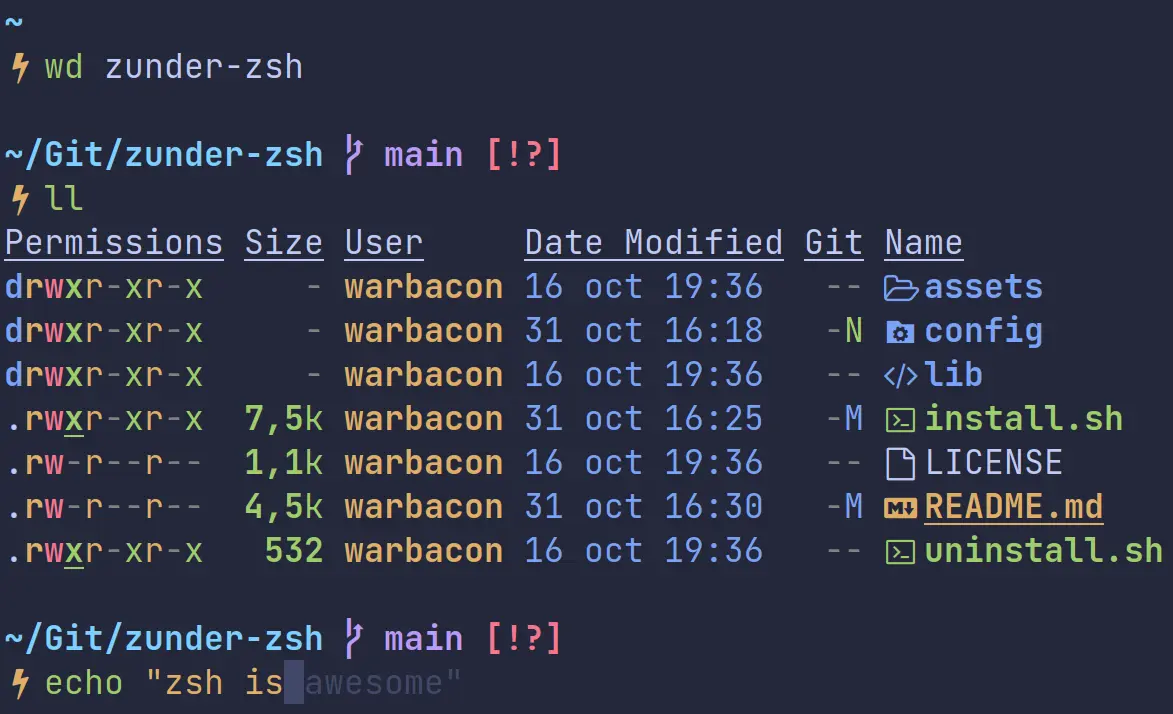
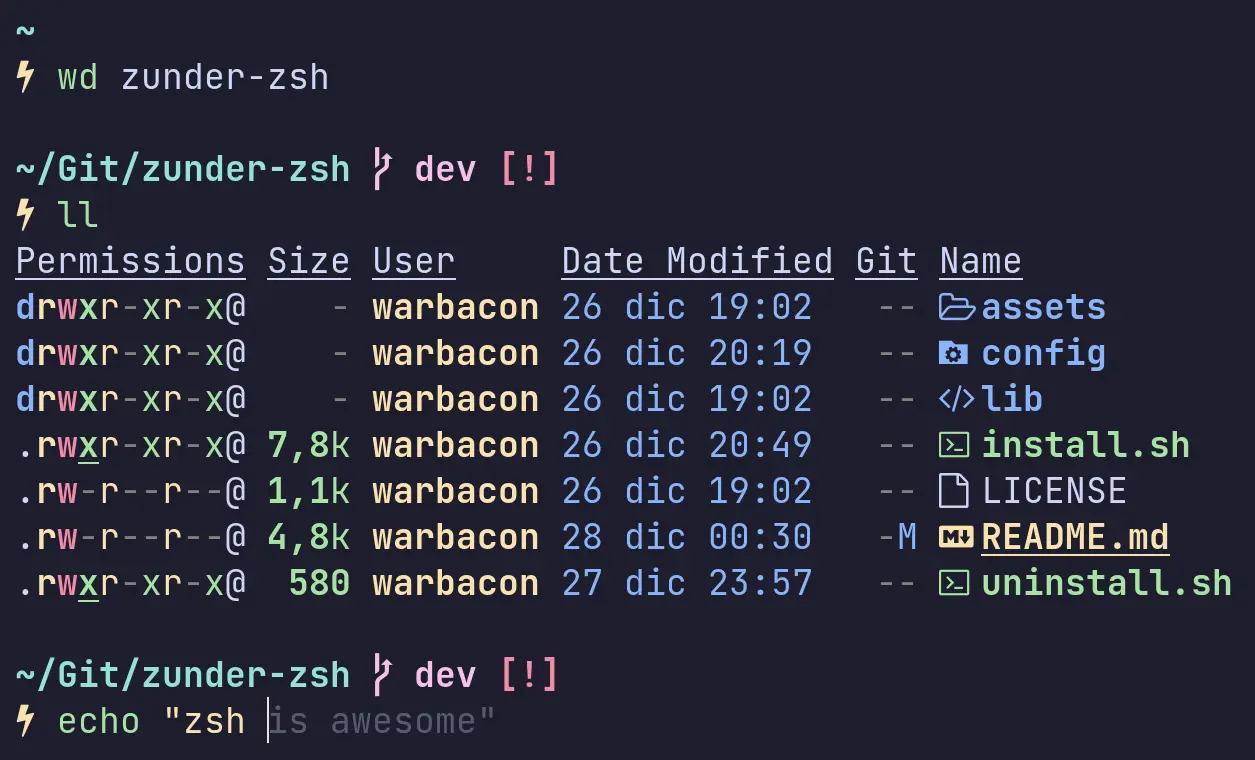
Update README.md

Changed region(s): [[0.0, 0.1849, 1.0, 0.8011], [0.0, 0.8627, 0.491, 0.986], [0.0, 0.0308, 0.2762, 0.1232]]

diff --git a/README.md b/README.md
@@ -2,7 +2,7 @@
 
 <div align="center"> 
 
-*"It's time to get rid of Oh My Zsh."*
+*It's time to get rid of Oh My Zsh.*
 
 Zunder is a configuration utility that configures Zsh the way the user expects it to work.
 
@@ -10,7 +10,7 @@ Zunder is a configuration utility that configures Zsh the way the user expects i
 
 </div>
 
-> Using Tokyo Night Storm colorscheme in Alacritty with JetBrainsMono Nerd Font
+> Using Catppuccin Mocha colorscheme in Kitty with JetBrainsMono Nerd Font
 
 *"You have convinced me, [let's try it out](https://github.com/Warbacon/zunder-zsh#getting-started)!"*
 
@@ -20,7 +20,7 @@ Zunder is a configuration utility that configures Zsh the way the user expects i
 - Full [Git](https://git-scm.com/) integration.
 - Some useful aliases.
 - Compatible with all [Oh My Zsh](https://github.com/ohmyzsh/ohmyzsh) and [Prezto](https://github.com/sorin-ionescu/prezto)
-plugins and themes. Check out [Zinit](https://github.com/zdharma-continuum/zinit).
+plugins and themes. Check out [zsh-snap](https://github.com/marlonrichert/zsh-snap).
 - Beautiful custom prompt built with [Starship](https://starship.rs/).
 - Replaces the `ls` command with [exa](https://github.com/ogham/exa).
 - [Fzf](https://github.com/junegunn/fzf) integration. Try using ALT+C, CTRL+T and CTRL+R.
@@ -41,14 +41,16 @@ plugins and themes. Check out [Zinit](https://github.com/zdharma-continuum/zinit
 ### Installed plugins:
 - [fast-syntax-highlighting](https://github.com/zdharma-continuum/fast-syntax-highlighting) - syntax
 highlighting for zsh.
-- [zsh-autosuggestions](https://github.com/zsh-users/zsh-autosuggestions) - suggest previously
+- [zsh-autosuggestions](https://github.com/zsh-users/zsh-autosuggestions) - suggests previously
 executed commands.
 - [zsh-completions](https://github.com/zsh-users/zsh-completions) - smarter command completions.
-- [zsh-autopair](https://github.com/hlissner/zsh-autopair) - automatically close parentheses,
+- [zsh-autopair](https://github.com/hlissner/zsh-autopair) - automatically closes parentheses,
 quotes and more.
 - [wd](https://github.com/mfaerevaag/wd) - jump to custom directories without using cd.
 - [sudo](https://github.com/ohmyzsh/ohmyzsh/tree/master/plugins/sudo) plugin from Oh My Zsh -
 press the Esc key twice to put `sudo` at the beginning.
+- [zsh-defer](https://github.com/romkatv/zsh-defer) - defers execution of a zsh command until 
+zsh has nothing else to do and is waiting for user input. 
 
 ### Supported operating systems:
 - Arch Linux and derivatives (Manjaro, Endeavour OS...).
@@ -70,6 +72,7 @@ The following packages are needed to get everything working as intended:
 - util-linux-user (only on Fedora)
 
 **If your operating system is supported, the script will make sure you have everything correctly installed.**
+
 ### Usage:
 1. Clone the repository:
    
@@ -85,7 +88,7 @@ The following packages are needed to get everything working as intended:
    ```
 
 And everything should be ready. 
-Zinit will be installed along with all plugins when starting a new zsh instance. 
+Zsh-snap will be installed along with all plugins when starting a new zsh instance. 
 
 ## Troubleshooting
 Zunder is under constant development, so errors may occur. I suggest you open an issue and **I'll help you as fast as I can**. 
@@ -96,6 +99,7 @@ Anyway, if you didn't like it or want to go back to your previous configuration,
 ```
 
 Additionally, if you used previously another shell, you can revert it using the following command:
+
 ```bash
 chsh -s $(which shell)
 
@@ -104,6 +108,7 @@ chsh -s $(which shell)
 
 ### Man command highlighting as error in Arch Linux
 Just run these commands if you are using `man-db` (most likely):
+
 ```bash
 sudo mandb
 sudo systemctl enable man-db.timer
